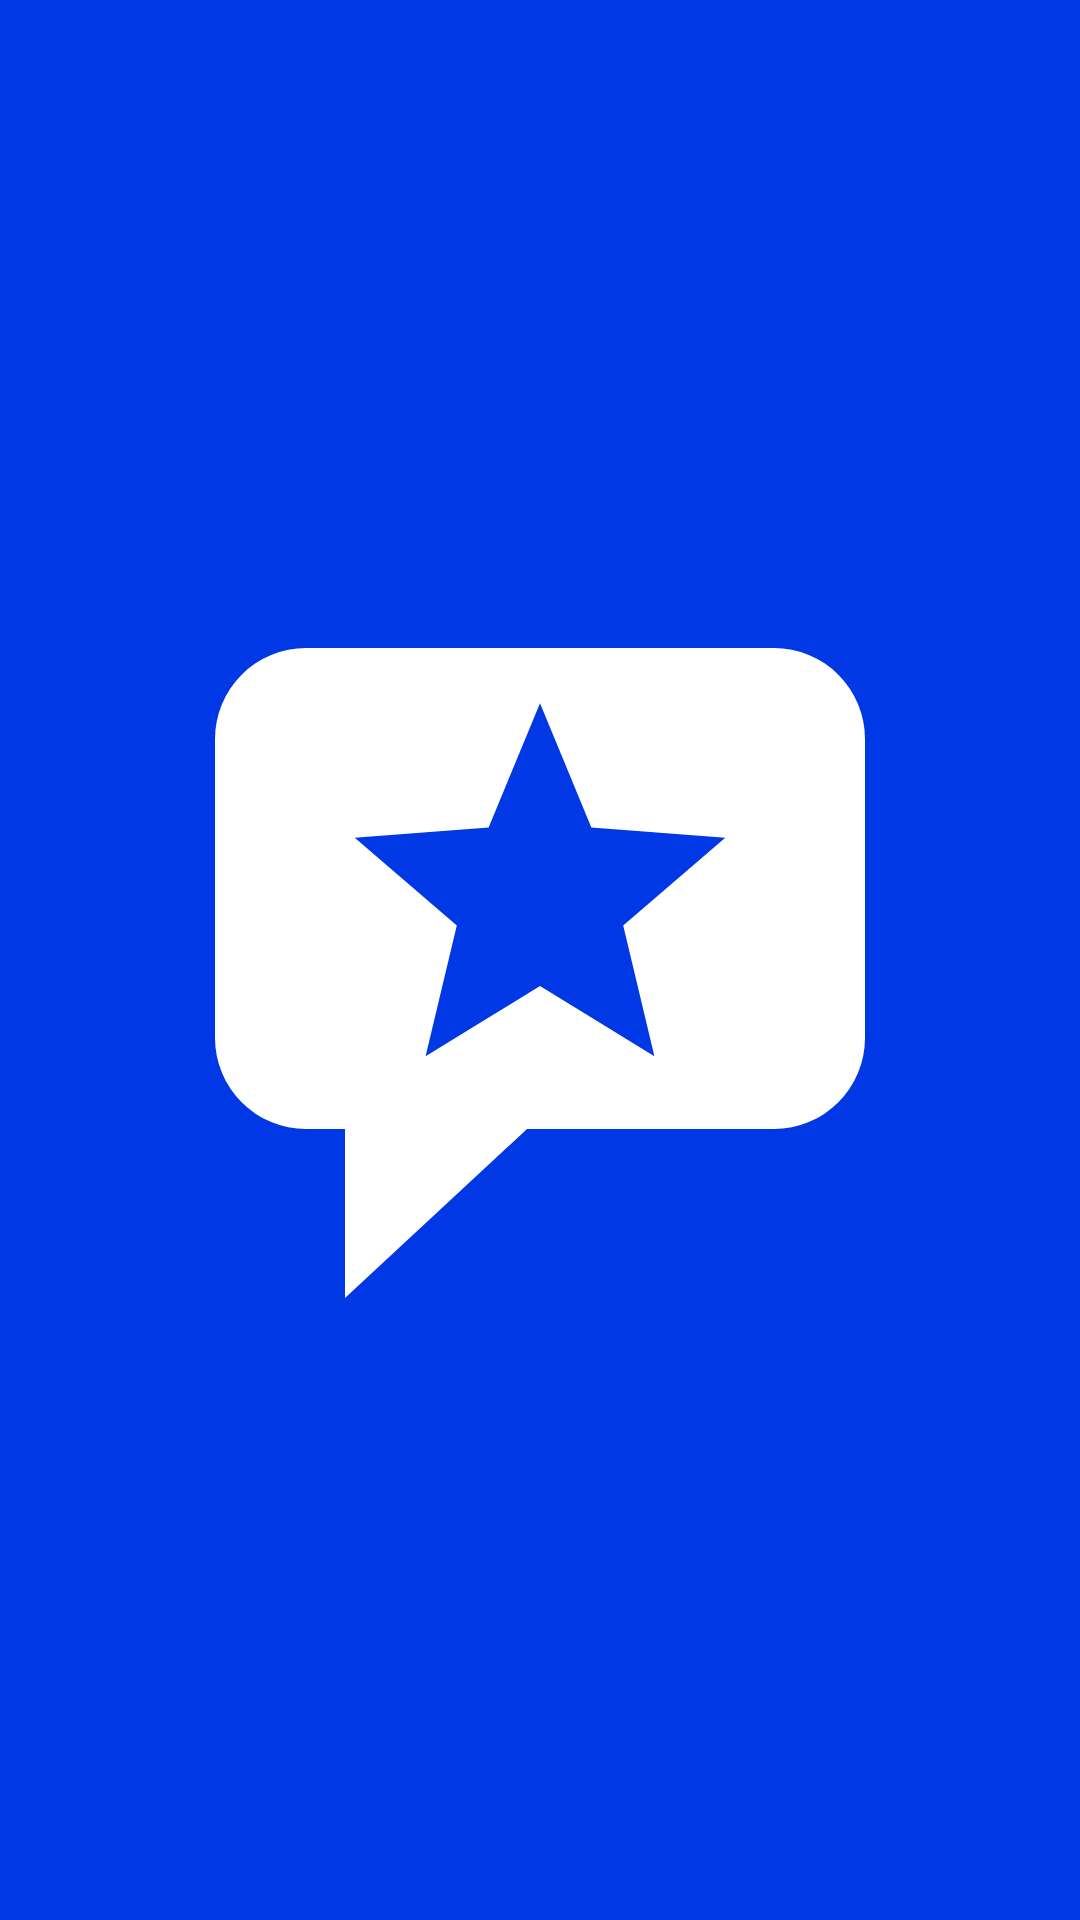
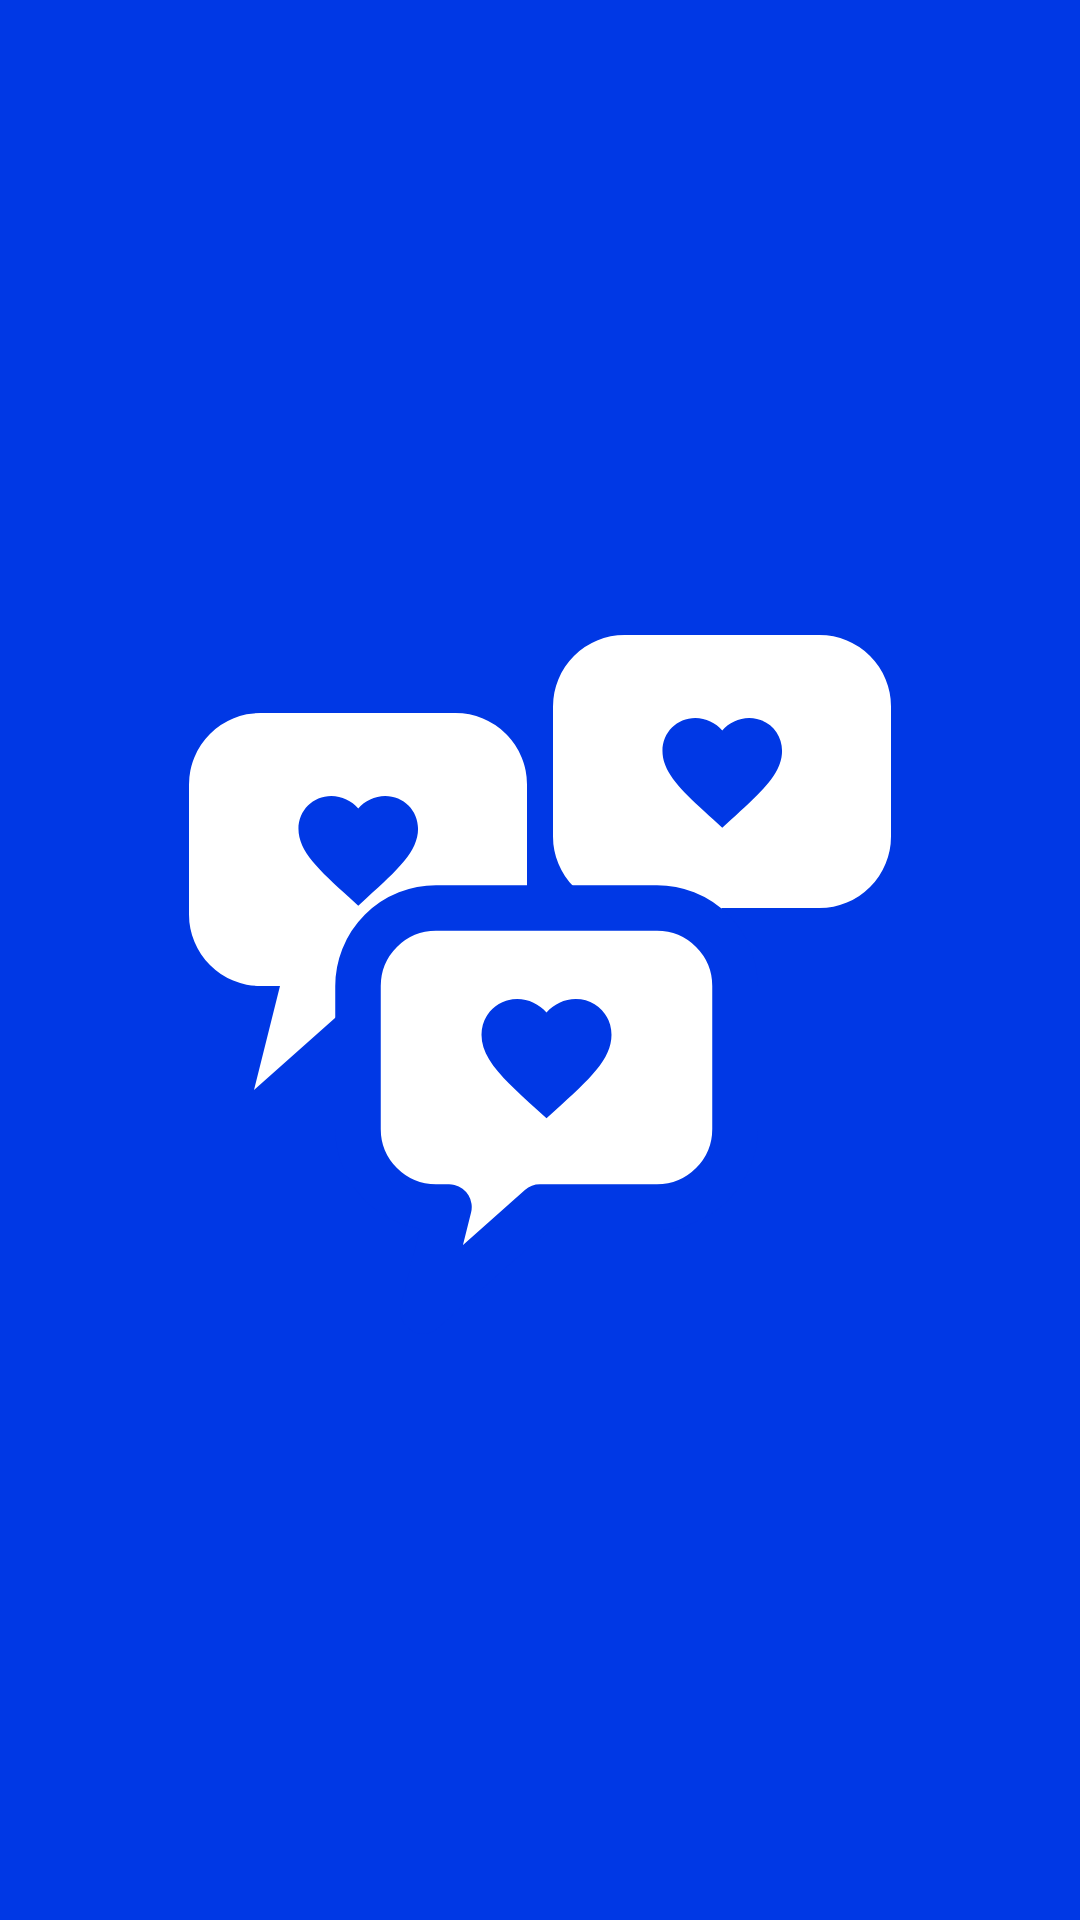
destaque Depoimentos: três balões com coração

Changed region(s): [[0.1528, 0.3125, 0.825, 0.6875]]

diff --git a/marketing/instagram/vitrine/textos.md b/marketing/instagram/vitrine/textos.md
@@ -32,7 +32,7 @@ do rosa; capas em `destaques/`, prévia em `previa-destaques.png`):
 | # | Nome no Instagram | Cor | Ícone | Arquivo |
 |---|---|---|---|---|
 | 1 | LoveMãe | `#FF0076` | símbolo da marca | `1-lovemae.png` |
-| 2 | Depoimentos | `#0038E5` | balão com estrela | `2-depoimentos.png` |
+| 2 | Depoimentos | `#0038E5` | três balões com coração | `2-depoimentos.png` |
 | 3 | Qual valor | `#FF0076` | moeda com cifrão | `3-qual-valor.png` |
 | 4 | Como pedir | `#0038E5` | prancheta com check | `4-como-pedir.png` |
 | 5 | Dúvidas | `#FF0076` | interrogação | `5-duvidas.png` |
